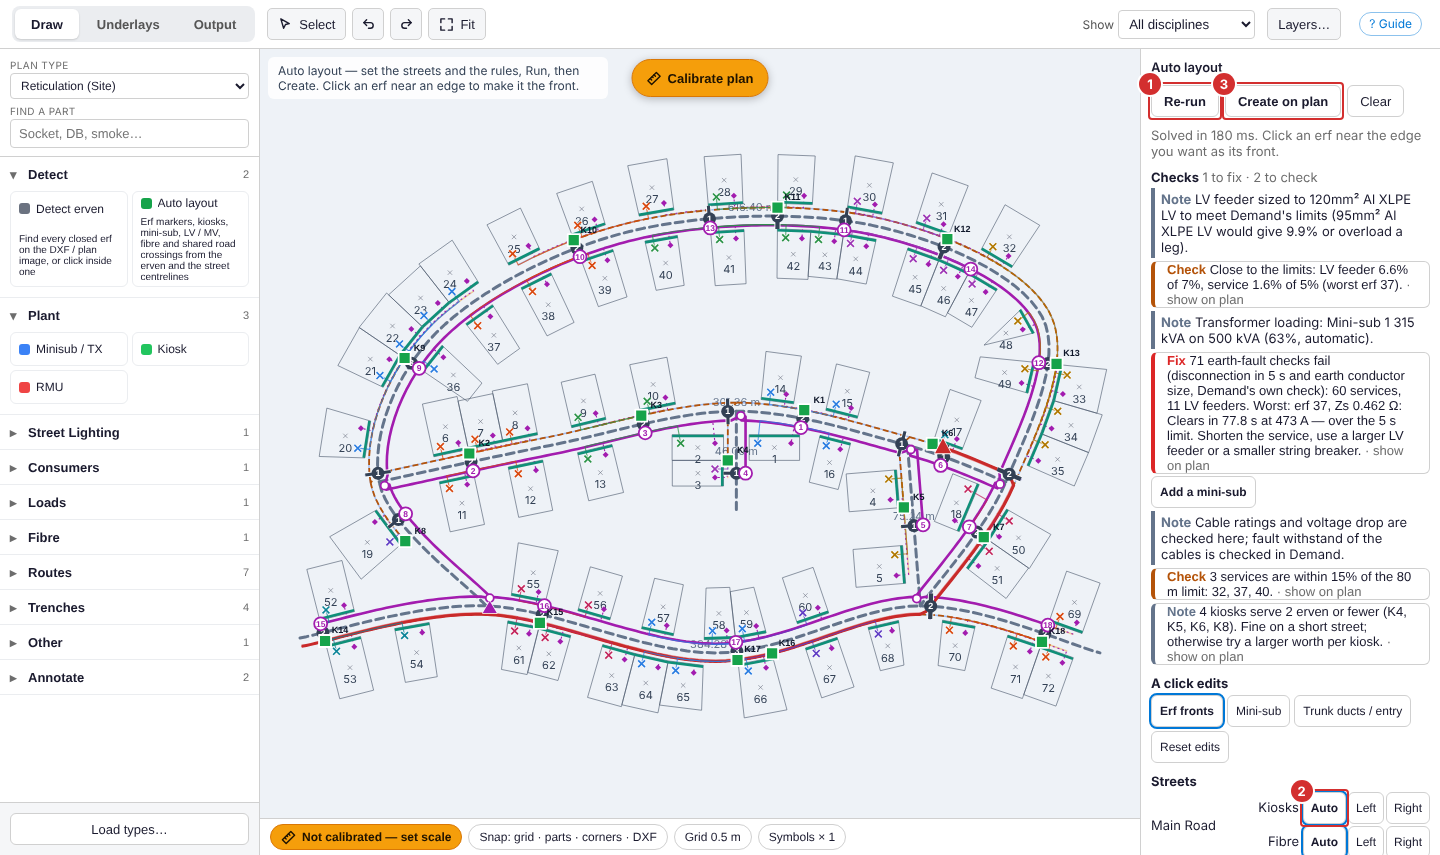
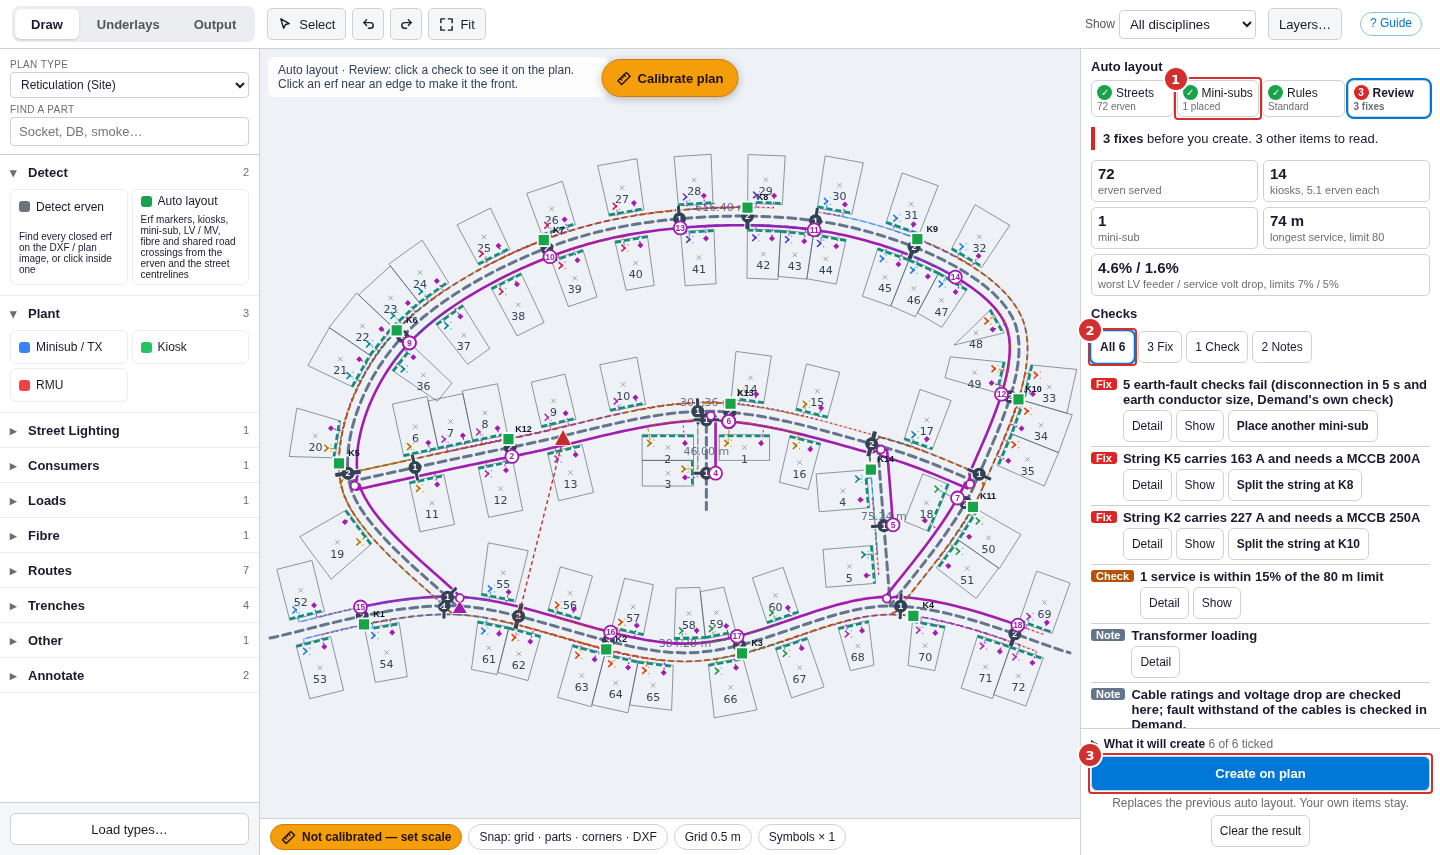
Help guide: Auto layout steps and pictures for the new panel
Claude-Session: https://claude.ai/code/session_01M38SdWRnztjiiWnFLvSoiL

diff --git a/frontend/js/help-guides.js b/frontend/js/help-guides.js
@@ -516,27 +516,27 @@ const HELP_GUIDES = [
     { title: 'Get the erven in',
       html: 'Import the layout as a DXF underlay (see <em>Bring in a DXF at the right scale</em>) and make sure the plan is calibrated. Pick <strong>Detect erven</strong> in the Detect group and press <strong>Detect all erven</strong>: every closed boundary on the matching layers is found, and each takes the number written inside it as its name. If a shape is not detected correctly, choose <strong>Draw</strong> and click its corners yourself (<kbd>Enter</kbd> or a click on the first corner closes it, <kbd>Backspace</kbd> takes a corner back): it becomes a real erf with its boundary. If a number in the drawing sits in no region, the message lists it. Review the set, then <strong>Create</strong>.' },
     { title: 'Tell it where the streets are',
-      html: 'Auto layout needs a <strong>Street centreline</strong> for every road. If the drawing has them, pick the layer under <strong>Streets</strong> in the Auto layout panel. <strong>All lines as streets</strong> turns every line of a centreline layer into a street. <strong>Pick centrelines</strong> lets you click the centreline of each road yourself (a click takes the whole line, <kbd>Shift</kbd>-click one drawn piece, <kbd>Alt</kbd>-click drops one), then <kbd>Enter</kbd> creates them. <strong>Streets from kerb layer</strong> pairs kerb lines into roads with their measured width. Streets are named from the nearest text and are 12 m wide unless you set another width. You can also press <strong>Draw centrelines</strong> in the panel and click along each street yourself: <kbd>Enter</kbd> (or a click on the last point again) finishes it, a street that ends on another street joins it. Or pick <em>Street centreline</em> in the Routes group and click along each street, <kbd>Enter</kbd> to finish. Streets are never counted in the quantities.' },
+      html: 'Auto layout needs a <strong>Street centreline</strong> for every road. If the drawing has them, pick the layer in the <strong>Streets</strong> step of the Auto layout panel. <strong>All lines as streets</strong> turns every line of a centreline layer into a street. <strong>Pick centrelines</strong> lets you click the centreline of each road yourself (a click takes the whole line, <kbd>Shift</kbd>-click one drawn piece, <kbd>Alt</kbd>-click drops one), then <kbd>Enter</kbd> creates them. <strong>Streets from kerb layer</strong> pairs kerb lines into roads with their measured width. Streets are named from the nearest text and are 12 m wide unless you set another width. You can also press <strong>Draw centrelines</strong> in the panel and click along each street yourself: <kbd>Enter</kbd> (or a click on the last point again) finishes it, a street that ends on another street joins it. Or pick <em>Street centreline</em> in the Routes group and click along each street, <kbd>Enter</kbd> to finish. Streets are never counted in the quantities.' },
     { title: 'Place your mini-subs',
-      html: 'This is the first step. Open <strong>Auto layout</strong>: it starts in <strong>Mini-sub</strong> mode. Click where each mini-sub stands, anywhere (on a street, in a block, in a park) and as many as you need. No kiosk is added beside a mini-sub: the kiosks are placed from the erven, and each goes to the nearest mini-sub. Click a mini-sub and click again to move it, or <kbd>Alt</kbd>-click to remove it. A mini-sub part you draw on the plan counts too. MV is not designed here: the mini-subs are fed from outside the layout.' },
+      html: 'The Auto layout panel has four steps: <strong>Streets</strong>, <strong>Mini-subs</strong>, <strong>Rules</strong> and <strong>Review</strong>, with a mark on each (done, needs you, out of date). Open the <strong>Mini-subs</strong> step: placing is on, so click where each mini-sub stands, anywhere (on a street, in a block, in a park) and as many as you need. No kiosk is added beside a mini-sub: the kiosks are placed from the erven, and each goes to the nearest mini-sub. Click a mini-sub and click again to move it, or <kbd>Alt</kbd>-click to remove it. A mini-sub part you draw on the plan counts too. MV is not designed here: the mini-subs are fed from outside the layout.' },
     { title: 'Run the layout',
-      html: 'Open <strong>Auto layout</strong> and press <strong>Run layout</strong>. The proposal draws on the plan: the front edge of each erf, the erf marker in its corner, the kiosk each erf is served from, the fibre ducts and the road crossings. Change a rule (houses per kiosk, longest service, which transformer, manhole spacing, ring or spur fibre, a side of the road per street) and it re-runs. The voltage-drop limits are the ones set in Demand (Max Feeder VD and Max Service VD). Each mini-sub is put where its LV network drops least, and the LV feeder is sized to meet the limits and its own current rating, unless you pick the cable. The kiosks next to the kiosk of a mini-sub are fed by their own feeders from the mini-sub, one string each, with a breaker on each string (the next standard MCCB or ACB size up from 1.2 times the string current, a factor you can change, or the one you pick under <strong>String breaker</strong>); the earth-fault check Demand uses then runs on the proposal, and the Checks list shows what fails to disconnect within 5 s or has too small an earth conductor. Under <strong>Voltage drop and transformer</strong> pick the transformer size; if a mini-sub carries more than it, the Checks list offers the next size up or another mini-sub (the <strong>Mini-subs</strong> number under LV network). The <strong>Result</strong> tiles show the totals, the longest service against its limit and how many crossings sharing saves.',
+      html: 'Press <strong>Run layout</strong>, the button at the bottom of the panel (it always does the next thing, and says what is missing when it cannot). The proposal draws on the plan: the front edge of each erf, the erf marker in its corner, the kiosk each erf is served from, the fibre ducts and the road crossings. Change a rule (houses per kiosk, longest service, which transformer, manhole spacing, ring or spur fibre, a side of the road per street) and it re-runs. The voltage-drop limits are the ones set in Demand (Max Feeder VD and Max Service VD). Each mini-sub is put where its LV network drops least, and the LV feeder is sized to meet the limits and its own current rating, unless you pick the cable. The kiosks next to the kiosk of a mini-sub are fed by their own feeders from the mini-sub, one string each, with a breaker on each string (the next standard MCCB or ACB size up from 1.2 times the string current, a factor you can change, or the one you pick under <strong>String breaker</strong>); the earth-fault check Demand uses then runs on the proposal, and the Checks list shows what fails to disconnect within 5 s or has too small an earth conductor. In <strong>Rules</strong> pick the transformer size (a preset and the four settings most often changed are at the top, the rest are under <strong>Advanced</strong>); if a mini-sub carries more than it, the Checks list offers the next size up or another mini-sub (the <strong>Mini-subs</strong> number under LV network). The <strong>Result</strong> tiles show the totals, the longest service against its limit and how many crossings sharing saves.',
       shot: { file: 'auto-layout-1.png', alt: 'The Auto layout panel beside a neighbourhood with the proposed kiosks, services and fibre',
         setup: 'plan-layout', clip: '#plan-workspace',
         callouts: [
-          { sel: '#plan-props [data-act="run"]', label: 'Run or re-run the layout' },
-          { sel: '#plan-props [data-side]', label: 'Kiosk and fibre side, per street' },
+          { sel: '#plan-props [data-step="2"]', label: 'Four steps: streets, mini-subs, rules, review' },
+          { sel: '#plan-props [data-cf="all"]', label: 'Checks: one line each, with Show and Fix' },
           { sel: '#plan-props [data-act="create"]', label: 'Create writes the real plan items' },
         ] } },
     { title: 'Read the checks',
-      html: 'Under <strong>Checks</strong> the layout lists what needs a decision: erven further than the service limit from their kiosk, erven that face no street, a kiosk with too many erven, services close to the limit, erven over the voltage-drop limits, cables over their rating, earth-fault checks that fail, a mini-sub over its transformer, erven on the plan with no boundary. Press a row to zoom to those erven and mark them in red on the plan (Clear the red marks removes them). <em>Fix</em> rows should be cleared before you Create (it asks first if any remain); <em>Check</em> and <em>Note</em> rows are your call.',
+      html: 'The <strong>Review</strong> step opens on a verdict (how many fixes) and five figures, then lists <strong>Checks</strong>, one line each, with the engineering detail under <strong>Detail</strong>. They show what needs a decision: erven further than the service limit from their kiosk, erven that face no street, a kiosk with too many erven, services close to the limit, erven over the voltage-drop limits, cables over their rating, earth-fault checks that fail, a mini-sub over its transformer, erven on the plan with no boundary. Press <strong>Show</strong> on a row to zoom to those erven and mark them in red on the plan (Clear red marks removes them); a Fix row can carry a button that does the fix. <em>Fix</em> rows should be cleared before you Create (it asks first if any remain); <em>Check</em> and <em>Note</em> rows are your call.',
       shot: { file: 'auto-layout-2.png', alt: 'The Checks list with a row picked and the erven it names marked in red on the plan',
         setup: 'plan-layout-checks', clip: '#plan-workspace',
         callouts: [
-          { sel: '#plan-props [data-ck]', label: 'A check: press it to mark the erven' },
+          { sel: '#plan-props [data-ck]', label: 'Show: marks the erven on the plan' },
         ] } },
     { title: 'Correct what it got wrong',
-      html: 'Under <strong>A click edits</strong>, <strong>Erf fronts</strong> lets you click near the edge of an erf that should be its front (the choice is kept and shown in orange). <strong>Mini-sub</strong> stands a mini-sub exactly where you click, anywhere (on a street, in a block, in a park), as many as you need: no kiosk is added beside it, the kiosks follow the erven and each goes to the nearest mini-sub. Click a mini-sub and click again to move it, Alt-click removes it, and a mini-sub part you draw on the plan counts the same way. And <strong>Trunk ducts / entry</strong> cuts or restores a section of the main fibre duct and moves its entry. <strong>Reset edits</strong> puts them all back. A street can be given a kiosk side and a fibre side: left and right are looking along the way the street was drawn.' },
+      html: 'Under <strong>Adjust on the plan</strong> in Review, <strong>Erf fronts</strong> lets you click near the edge of an erf that should be its front (the choice is kept and shown in orange). <strong>Mini-sub</strong> stands a mini-sub exactly where you click, anywhere (on a street, in a block, in a park), as many as you need: no kiosk is added beside it, the kiosks follow the erven and each goes to the nearest mini-sub. Click a mini-sub and click again to move it, Alt-click removes it, and a mini-sub part you draw on the plan counts the same way. And <strong>Trunk ducts / entry</strong> cuts or restores a section of the main fibre duct and moves its entry. <strong>Reset edits</strong> puts them all back. A street can be given a kiosk side and a fibre side: left and right are looking along the way the street was drawn.' },
     { title: 'Set the trenches and Create',
       html: 'The <strong>Trenches</strong> group sets the depth of each cable class (LV, service and street light 0.7 m, fibre 0.6 m); the trench lengths and volumes update at once. Tick what to create and press <strong>Create on plan</strong>. It adds the kiosks, mini-subs, manholes, cables, one crossing per duct and the trenches, and moves each erf marker to its corner. Create again later and the previous layout is replaced; your own items stay. Undo removes all of it in one step.' },
   ],
